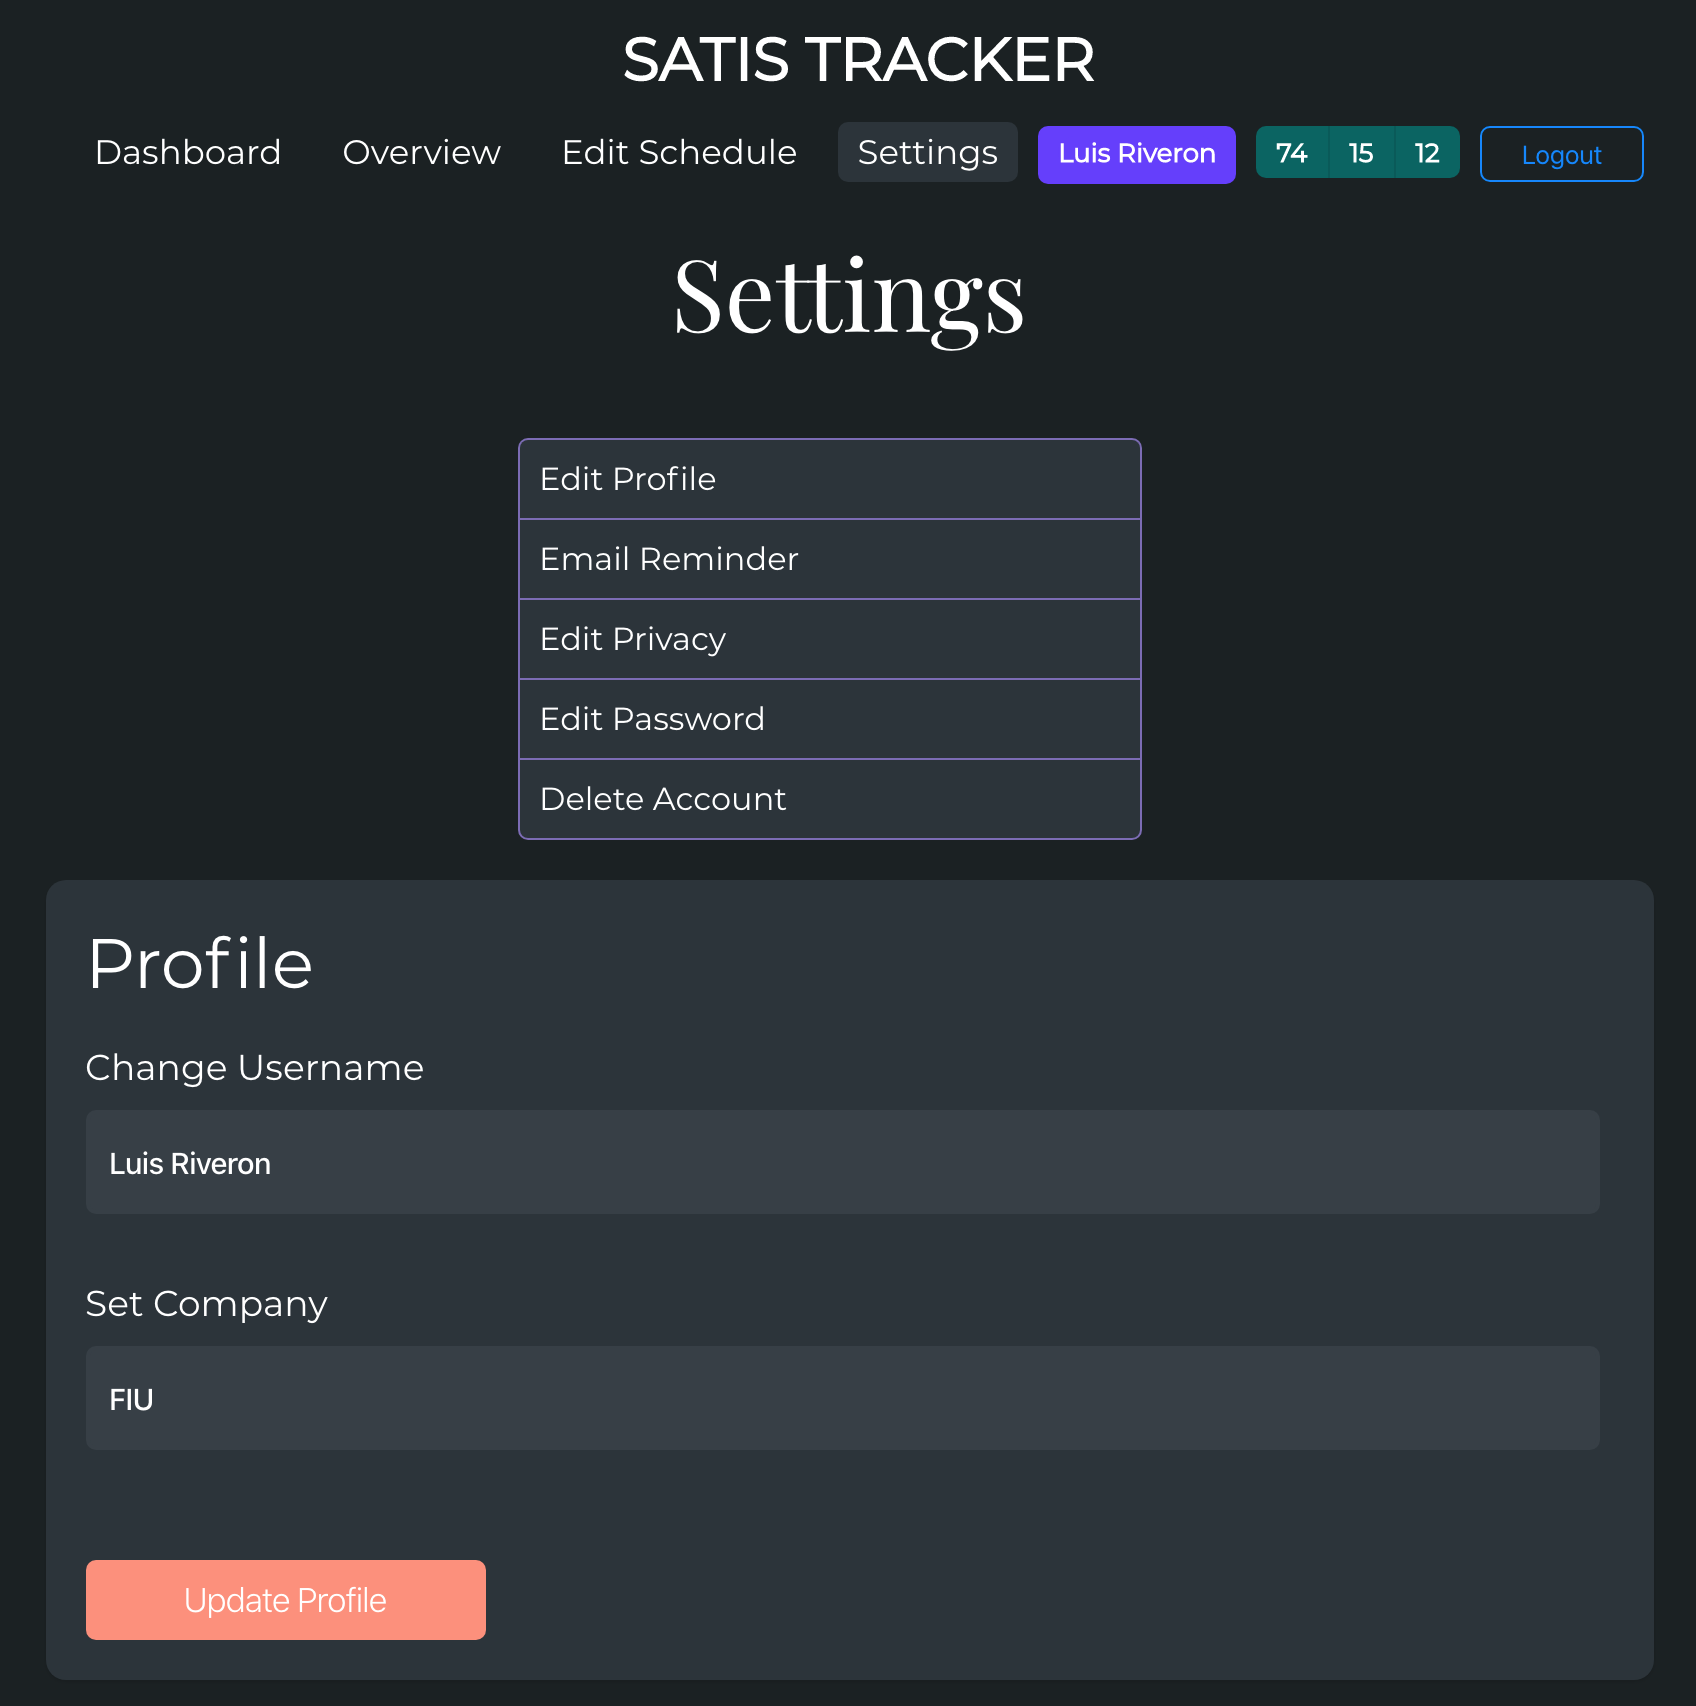
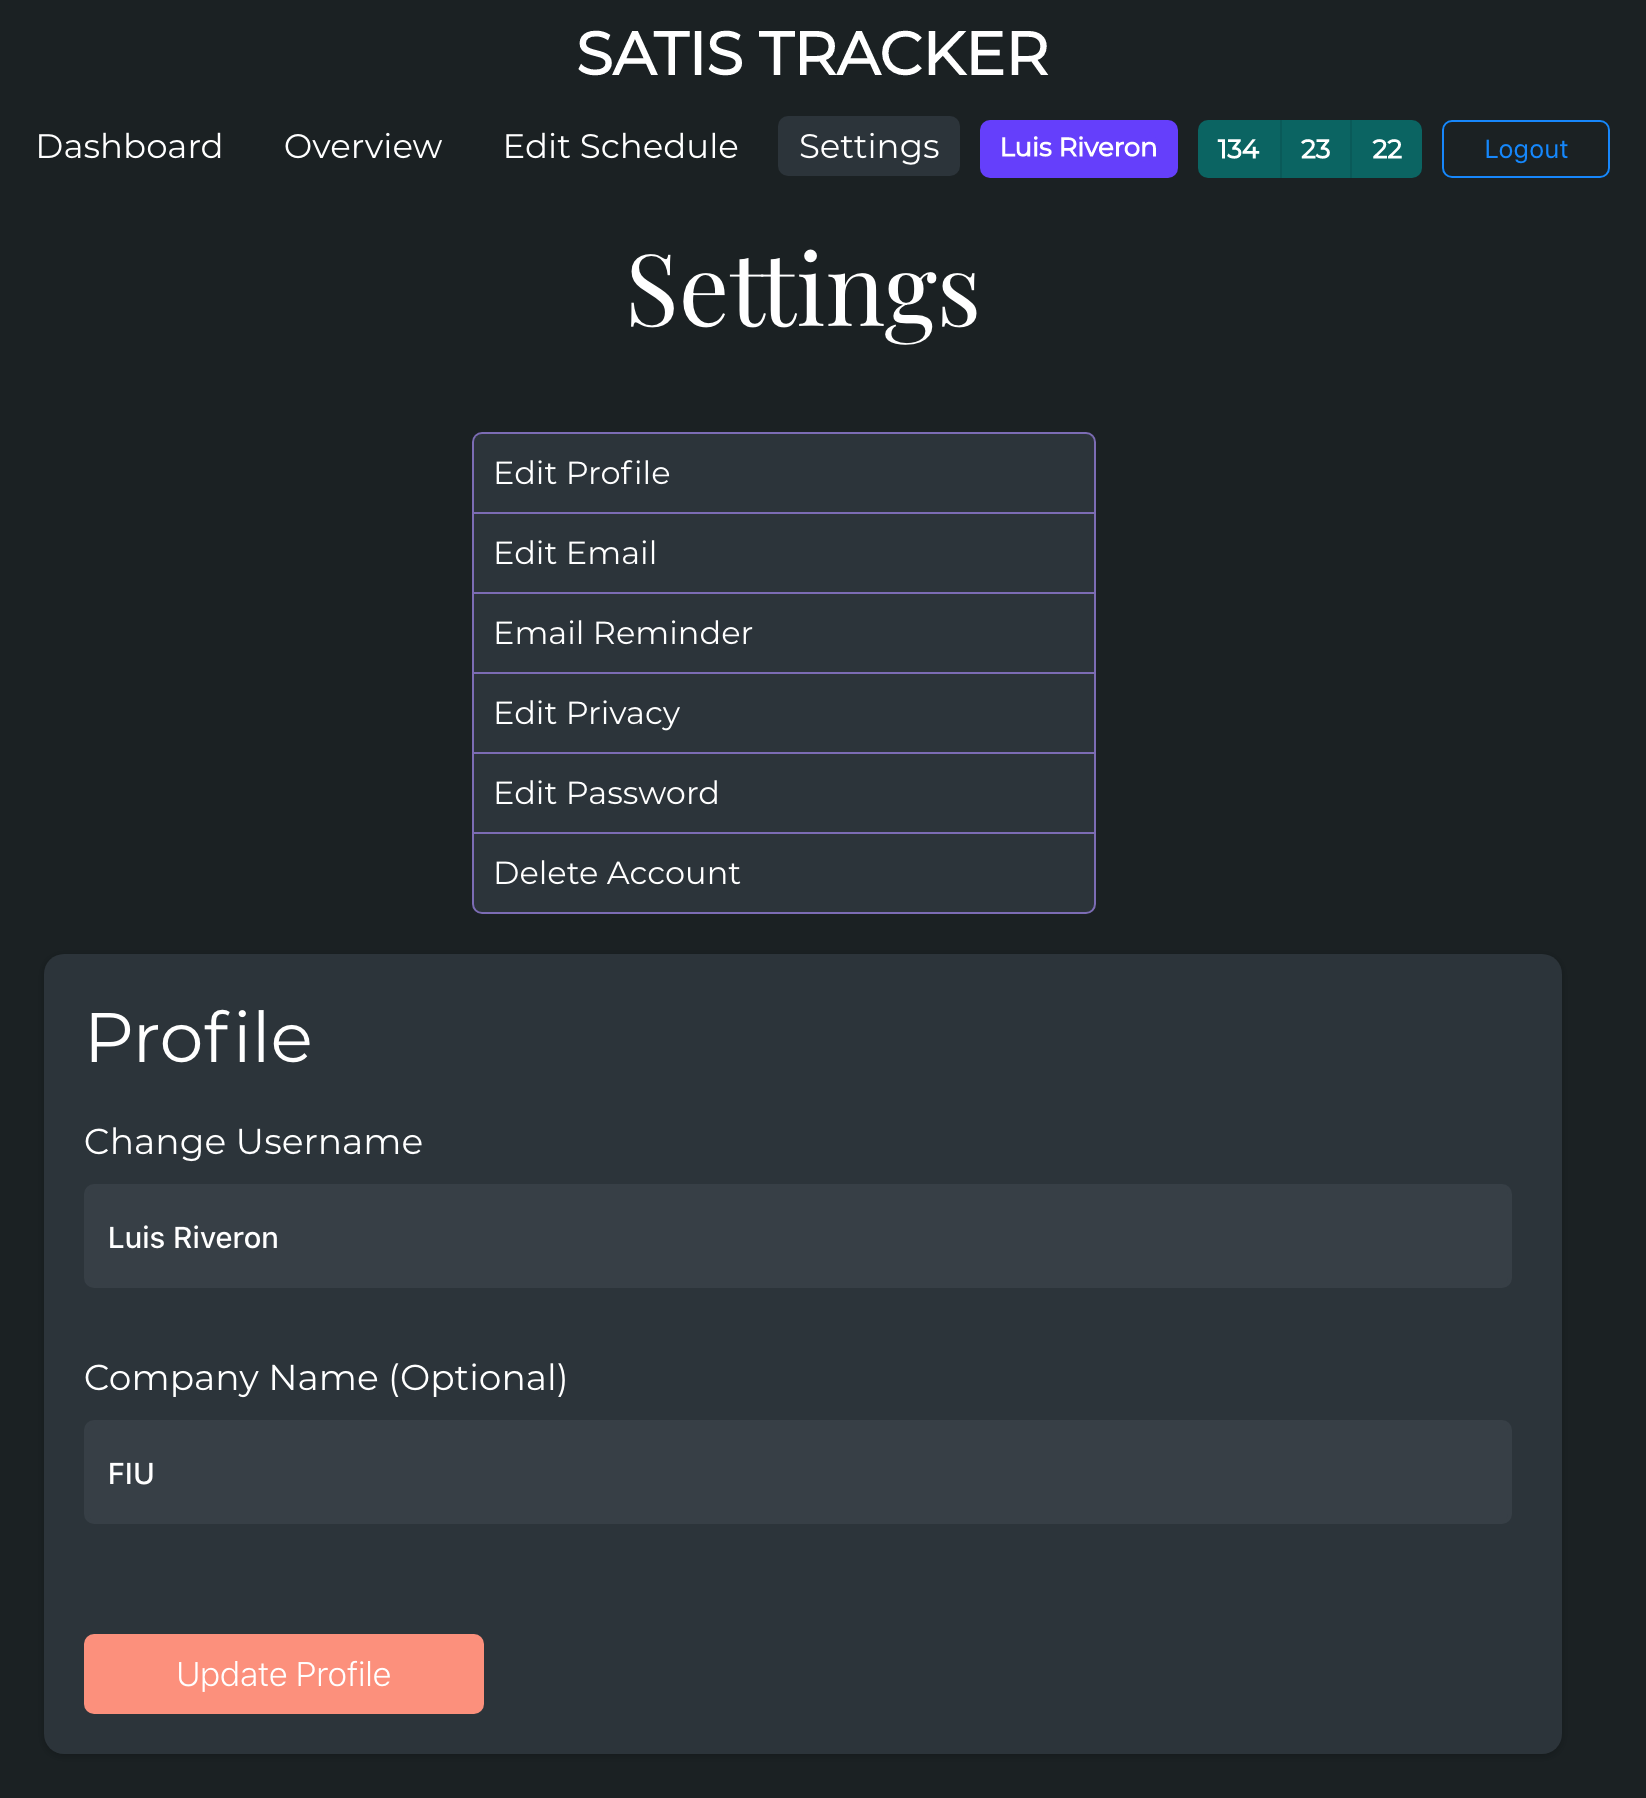
Edit Email Functionality
This update adds the option for the user to edit their current email address under the settings tab. If the user decides to do this, their email reminders will be turned off and will need to be reactivated once they confirm their new email address.

diff --git a/server/api/index.js b/server/api/index.js
@@ -47,6 +47,7 @@ router.get('/userdata', async (req, res) => {
 			res.send({
 				user: {
 					username: user.username,
+					email: user.email,
 					work_start_hour: user.work_start_hour,
 					work_end_hour: user.work_end_hour,
 					work_paused: user.work_paused,
@@ -457,6 +458,62 @@ router.post('/userdata/editprofile', async (req, res) => {
 	}
 });
 
+// Edit uer's email address
+router.post('/userdata/editemail', async (req, res) => {
+	if (req.isAuthenticated()) {
+		// Get the new email entered by user
+		let newEmail = req.body.newEmail;
+
+		// If there is currently no user with the new email, then continue with updating
+		await User.findOne({ email: newEmail }).then(async (user) => {
+			if (user) {
+				req.flash('user_alert', 'Email entered is already registered');
+				res.redirect('users/dashboard');
+			} else {
+				User.findOne({ _id: req.user.id }).then(async (user) => {
+					// Generate a new confirmation code for the user
+					let confirmation_code = random_string({ length: 10, type: 'url-safe' });
+
+					// Send email to user's new email containing confirmation url
+					// Only update the user dats if the email was actually sent
+					if (emailConfirm(newEmail, confirmation_code, req.user.id) != 1) {
+						// Check if the user has email notifications turned on
+						// If they do, then turn it off for the email change
+						// Using an if else statement here so there is only one update needed
+						if (Notifier.exists(req.user.id.toString())) {
+							Notifier.remover(req.user.id.toString());
+
+							// Reflect this change in the database
+							// Set the user's email_confirmed field to false
+							await user.updateOne({
+								email: newEmail,
+								email_confirmed: false,
+								confirmation_code: confirmation_code,
+								allow_email_notifier: false
+							});
+						} else {
+							// Set the user's email_confirmed field to false
+							await user.updateOne({
+								email: newEmail,
+								email_confirmed: false,
+								confirmation_code: confirmation_code
+							});
+						}
+
+						// Alert the user of the change
+						req.flash('user_alert', 'Check your new email for a confirmation link');
+						res.redirect('users/dashboard');
+					} else {
+						// Alert the user that the email change was not successful
+						req.flash('user_alert', 'An error occurred. Try again or enter a different email.');
+						res.redirect('users/dashboard');
+					}
+				});
+			}
+		});
+	}
+});
+
 // Edit user's email reminder setting
 router.post('/userdata/editreminder', (req, res) => {
 	if (req.isAuthenticated()) {
@@ -498,51 +555,17 @@ router.post('/userdata/confirmemail', (req, res) => {
 			if (user.email_confirmed != true) {
 				let confirmation_code = random_string({ length: 10, type: 'url-safe' });
 
-				let confirm_url =
-					'https://satistracker.com/users/email_confirm/' + confirmation_code + '/' + req.user.id;
+				// Send email to user containing confirmation email
+				if (emailConfirm(req.user.email, confirmation_code, req.user.id) != 1) {
+					// Update confirmation code for user in database
+					await user.updateOne({ confirmation_code: confirmation_code });
 
-				var mailOptions = {
-					from: '"Satis Tracker" <satistrack@gmail.com>',
-					to: user.email,
-					subject: 'Confirm your email on Satis Tracker',
-					html:
-						'<div id="full_container" style="width: 100%; background-color: #EEF0F6; padding: 20px 0;">' +
-						'<a href="https://satistracker.com" target="_blank" style="text-decoration: none;"><div id="logo_text" ' +
-						'style="width: 100%; font-size: 30px; text-align: center; margin-bottom: 20px;">SATIS TRACKER</div></a>' +
-						'<div id="content_container" style="width: 60%; background-color: #fff; margin: 20px auto; ' +
-						'padding: 30px; border-radius: 10px; text-align: center; font-size: 18px; font-weight: bold;">' +
-						'In order to receive emails from Satis Tracker, including Mood Report reminders, your email must be confirmed.<br><br>' +
-						'<a href="' +
-						confirm_url +
-						'" target="_blank" style="text-decoration: none;"><div id="begin_button" ' +
-						'style="width: fit-content; margin: 0 auto; padding: 10px 30px; border: none; background-color: #fe9079; ' +
-						'color: #fff; font-size: 16px; border-radius: 5px;">Confirm Email</div></a></div>' +
-						'<div id="statement" style="width: 100%; text-align: center; font-size: 13px; margin-top: 25px;">' +
-						'This is an automated message. Please do not reply to this email.</div>' +
-						'</div>'
-				};
-
-				var transporter = mailer.createTransport({
-					service: 'gmail',
-					auth: {
-						user: 'satistrack@gmail.com',
-						pass: config.emps
-					}
-				});
-
-				await transporter.sendMail(mailOptions, function(error, info) {
-					if (error) {
-						console.log(error);
-					} else {
-						console.log('Confirmation email sent: ' + info.response);
-					}
-				});
-
-				// Update confirmation code for user in database
-				await user.updateOne({ confirmation_code: confirmation_code });
-
-				req.flash('user_alert', 'Check your email for a new confirmation link');
-				res.redirect('/users/dashboard');
+					req.flash('user_alert', 'Check your email for a new confirmation link');
+					res.redirect('/users/dashboard');
+				} else {
+					req.flash('user_alert', 'An error occurred. Try again.');
+					res.redirect('/users/dashboard');
+				}
 			} else {
 				req.flash('user_alert', 'Your email is already confirmed');
 				res.redirect('/users/dashboard');
@@ -550,6 +573,52 @@ router.post('/userdata/confirmemail', (req, res) => {
 		});
 	}
 });
+
+// Send an email containing an email confirmation link to the user
+let emailConfirm = async (email, confirmation_code, id) => {
+	let confirm_url = 'https://satistracker.com/users/email_confirm/' + confirmation_code + '/' + id;
+
+	var mailOptions = {
+		from: '"Satis Tracker" <satistracker@gmail.com>',
+		to: email,
+		subject: 'Confirm your email on Satis Tracker',
+		html:
+			'<div id="full_container" style="width: 100%; background-color: #EEF0F6; padding: 20px 0;">' +
+			'<a href="https://satistracker.com" target="_blank" style="text-decoration: none;"><div id="logo_text" ' +
+			'style="width: 100%; font-size: 30px; text-align: center; margin-bottom: 20px;">SATIS TRACKER</div></a>' +
+			'<div id="content_container" style="width: 60%; background-color: #fff; margin: 20px auto; ' +
+			'padding: 30px; border-radius: 10px; text-align: center; font-size: 18px; font-weight: bold;">' +
+			'In order to receive emails from Satis Tracker, including Mood Report reminders, your email must be confirmed.<br><br>' +
+			'<a href="' +
+			confirm_url +
+			'" target="_blank" style="text-decoration: none;"><div id="begin_button" ' +
+			'style="width: fit-content; margin: 0 auto; padding: 10px 30px; border: none; background-color: #fe9079; ' +
+			'color: #fff; font-size: 16px; border-radius: 5px;">Confirm Email</div></a></div>' +
+			'<div id="statement" style="width: 100%; text-align: center; font-size: 13px; margin-top: 25px;">' +
+			'This is an automated message. Please do not reply to this email.</div>' +
+			'</div>'
+	};
+
+	var transporter = mailer.createTransport({
+		service: 'gmail',
+		auth: {
+			user: 'satistracker@gmail.com',
+			pass: config.emps
+		}
+	});
+
+	await transporter.sendMail(mailOptions, function(error, info) {
+		if (error) {
+			console.log(error);
+			// return 1 if an error occurred
+			return 1;
+		} else {
+			console.log('Confirmation email sent: ' + info.response);
+			// return 0 if no error occurred
+			return 0;
+		}
+	});
+};
 
 // Edit user's privacy setting
 router.post('/userdata/editprivacy', (req, res) => {

diff --git a/server/src/components/dashboard/settings/EditEmail.js b/server/src/components/dashboard/settings/EditEmail.js
@@ -1,0 +1,69 @@
+import React from 'react';
+import PropTypes from 'prop-types';
+
+// Form validation
+import { Formik } from 'formik';
+import * as Yup from 'yup';
+
+const EditEmail = (props) => (
+	<Formik
+		initialValues={{ newEmail: '' }}
+		onSubmit={(values, { setSubmitting }) => {
+			setSubmitting(false);
+		}}
+		validationSchema={Yup.object().shape({
+			newEmail: Yup.string()
+				.required('New Email is required')
+				.email('New Email is not valid')
+				.test('email-match', 'This is your current Email. Enter a different one.', function(value) {
+					return props.current_email != value;
+				})
+		})}
+	>
+		{(props) => {
+			document.title = 'Edit Email';
+
+			const { values, newEmail, touched, errors, isSubmitting, handleChange, handleBlur } = props;
+
+			return (
+				<div>
+					<form action="/api/userdata/editemail" method="POST">
+						<div className="panel_title">Edit Email</div>
+						<label>Enter New Email Address</label>
+						<input
+							type="text"
+							name="newEmail"
+							id="newEmail"
+							value={values.newEmail}
+							onBlur={handleBlur}
+							className={errors.newEmail && touched.newEmail && 'error'}
+							onChange={handleChange}
+							defaultValue={newEmail}
+						/>
+						{errors.newEmail && touched.newEmail && <div className="input_feedback">{errors.newEmail}</div>}
+						<button type="submit" className="formButton" disabled={errors.newEmail || isSubmitting}>
+							Update Email
+						</button>
+						<br />
+						<br />
+						Editing your Email will require confirmation and will deactive Email notifications.
+					</form>
+				</div>
+			);
+		}}
+	</Formik>
+);
+
+EditEmail.propTypes = {
+	newEmail: PropTypes.string,
+	current_email: PropTypes.string,
+	values: PropTypes.object,
+	touched: PropTypes.object,
+	errors: PropTypes.object,
+	isSubmitting: PropTypes.bool,
+	handleChange: PropTypes.func,
+	handleBlur: PropTypes.func,
+	handleSubmit: PropTypes.func
+};
+
+export default EditEmail;

diff --git a/server/src/components/dashboard/settings/Settings.js b/server/src/components/dashboard/settings/Settings.js
@@ -6,6 +6,7 @@ import PropTypes from 'prop-types';
 // Import components
 import EditProfile from './EditProfile';
 import EmailReminder from './EmailReminder';
+import EditEmail from './EditEmail';
 import EditPrivacy from './EditPrivacy';
 import EditPassword from './EditPassword';
 import DeleteAccount from './DeleteAccount';
@@ -13,6 +14,7 @@ import DeleteAccount from './DeleteAccount';
 const Settings = (props) => {
 	let username = props.user_data.username;
 	let company = props.user_data.company;
+	let current_email = props.user_data.email;
 	let days_reported = props.user_data.days_reported;
 	let allowed = props.user_data.allow_email_notifier;
 	let email_confirmed = props.user_data.email_confirmed;
@@ -25,6 +27,10 @@ const Settings = (props) => {
 				<div className="left_links">
 					<Link key="edit_profile" to="/users/settings/profile">
 						<div className="link top_link">Edit Profile</div>
+					</Link>
+
+					<Link key="edit_email" to="/users/settings/email">
+						<div className="link middle_link">Edit Email</div>
 					</Link>
 
 					<Link key="email_reminder" to="/users/settings/reminder">
@@ -59,6 +65,13 @@ const Settings = (props) => {
 							render={(props) => (
 								<EmailReminder {...props} allowed={allowed} email_confirmed={email_confirmed} />
 							)}
+						/>
+
+						{/* Edit Email Route */}
+						<Route
+							path="/users/settings/email"
+							exact
+							render={(props) => <EditEmail {...props} current_email={current_email} />}
 						/>
 
 						{/* Edit Privacy Route */}

diff --git a/server/routes/users.js b/server/routes/users.js
@@ -116,7 +116,7 @@ let emailConfirm = async (email, confirmation_code, id) => {
 	let confirm_url = 'https://satistracker.com/users/email_confirm/' + confirmation_code + '/' + id;
 
 	var mailOptions = {
-		from: '"Satis Tracker" <satistrack@gmail.com>',
+		from: '"Satis Tracker" <satistracker@gmail.com>',
 		to: email,
 		subject: 'Confirm your email on Satis Tracker',
 		html:
@@ -139,7 +139,7 @@ let emailConfirm = async (email, confirmation_code, id) => {
 	var transporter = mailer.createTransport({
 		service: 'gmail',
 		auth: {
-			user: 'satistrack@gmail.com',
+			user: 'satistracker@gmail.com',
 			pass: config.emps
 		}
 	});

diff --git a/server/src/components/user/Overview.js b/server/src/components/user/Overview.js
@@ -250,7 +250,7 @@ const Overview = (props) => {
 	} else {
 		return (
 			<div className="dashboard">
-				{user.current == true && <div className="page_title">Your Public Overview is Set to Private</div>}
+				{user.current == true && <div className="page_title">Your Overview is Set to Private</div>}
 				<div className="monthly_report">
 					{isLoading ? (
 						<div className="month_loader" />

diff --git a/server/src/components/App.js b/server/src/components/App.js
@@ -47,6 +47,7 @@ class App extends Component {
 							user_data: {
 								user_id: this.state.user_id,
 								username: resp.user.username,
+								email: resp.user.email,
 								work_start_hour: resp.user.work_start_hour,
 								work_end_hour: resp.user.work_end_hour,
 								work_paused: resp.user.work_paused,

diff --git a/server/server.js b/server/server.js
@@ -18,7 +18,7 @@ import sassMiddleware from 'node-sass-middleware';
 import path from 'path';
 
 // Api Route
-import apiRouter from './api';
+import apiRouter from './api/index.js';
 
 import cors from 'cors';
 
